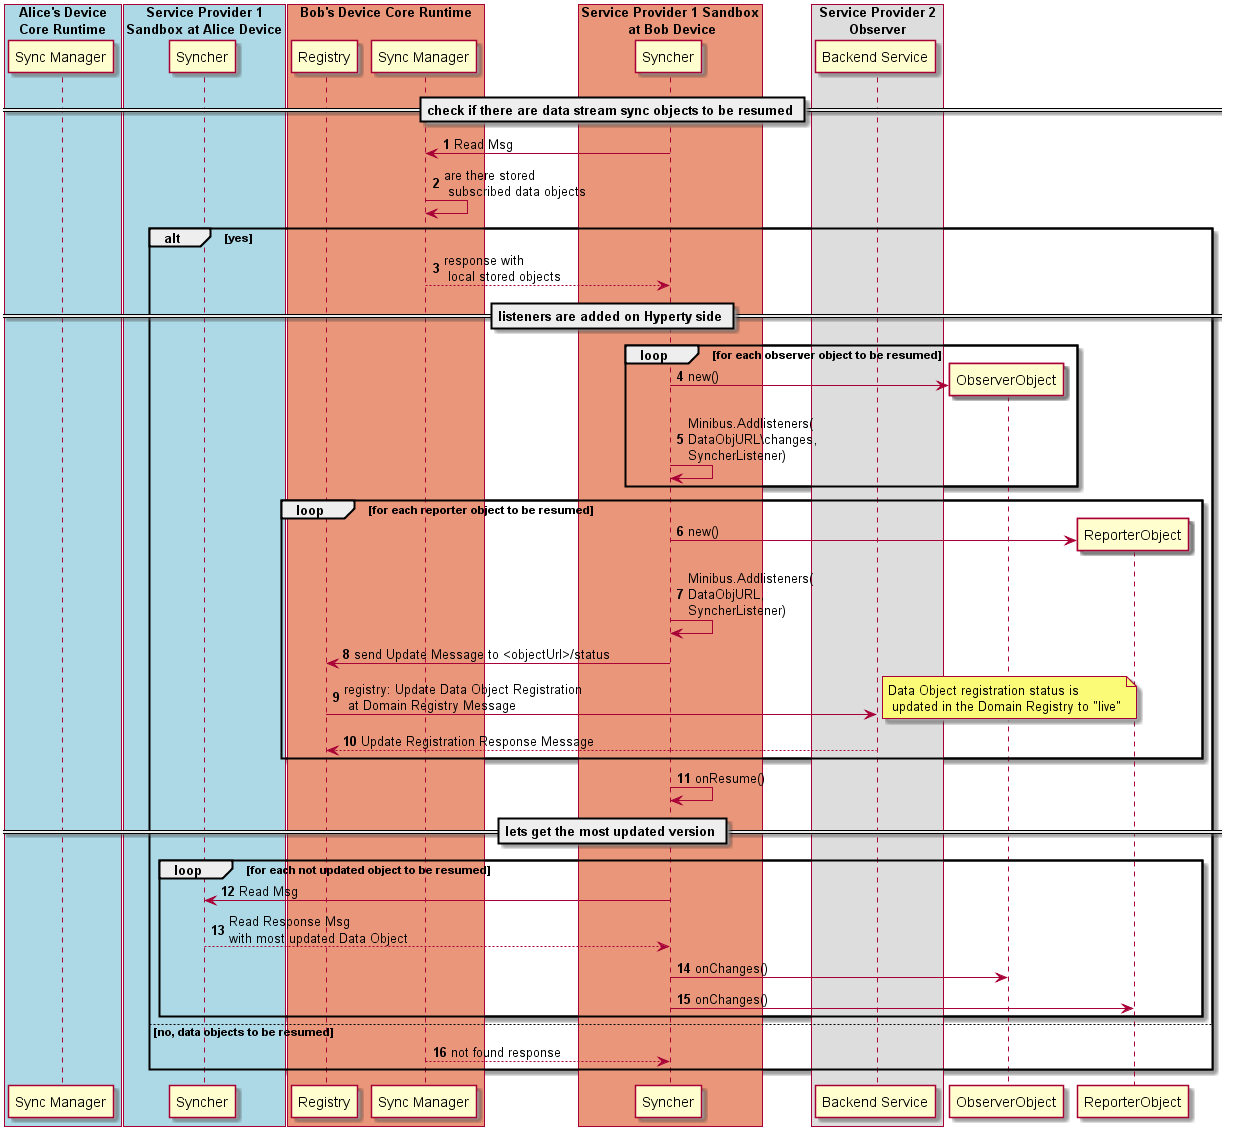
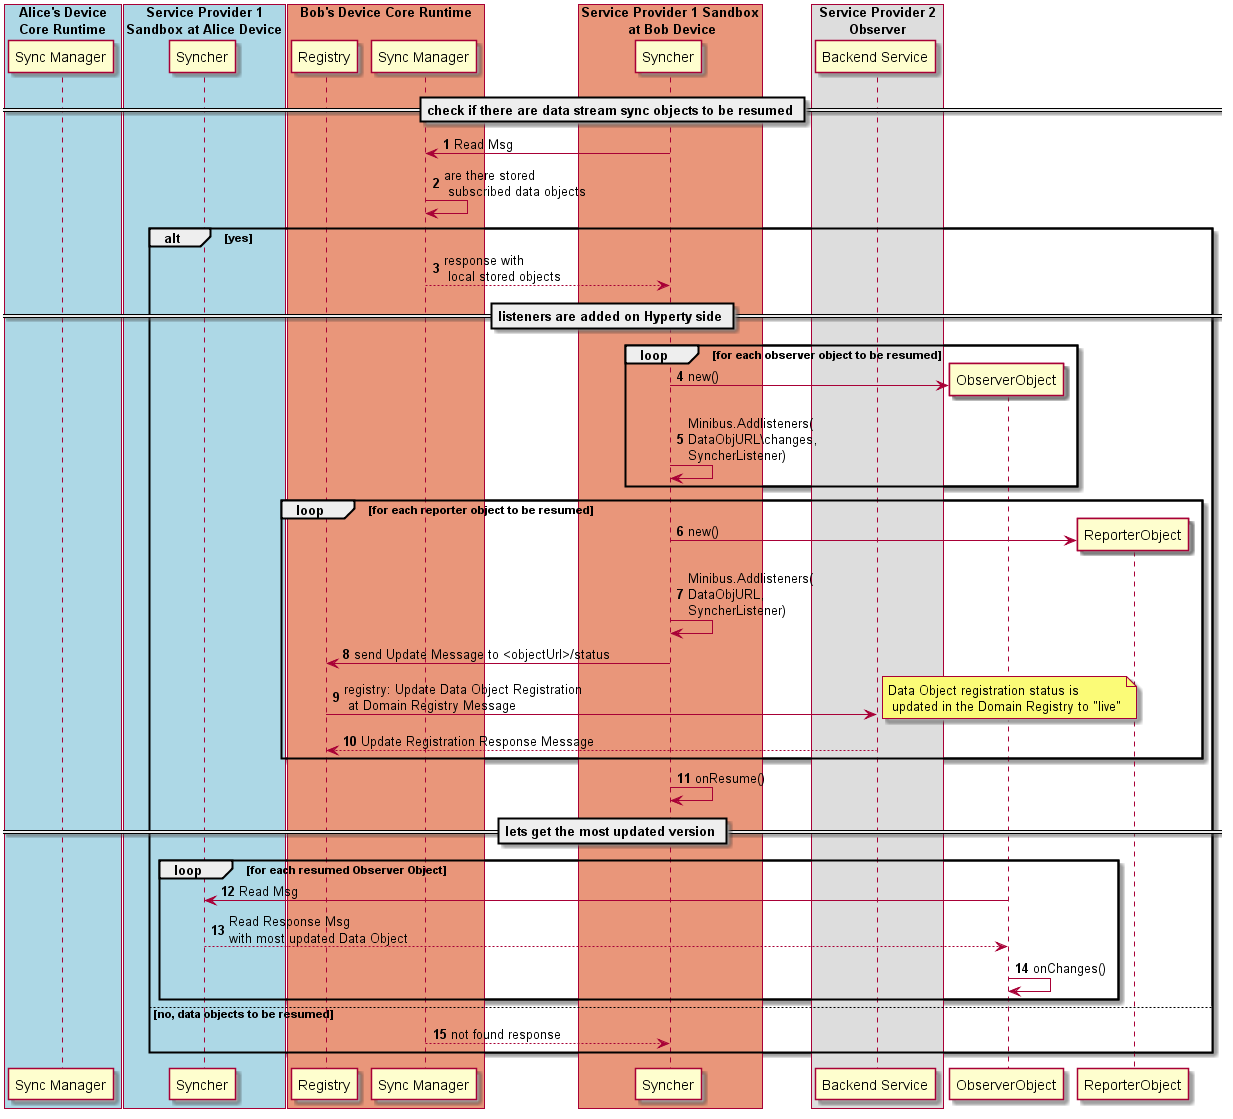
resume data object updated for reporters

diff --git a/dynamic-view/data-sync/data-object-creation.md b/dynamic-view/data-sync/data-object-creation.md
@@ -6,9 +6,9 @@ This MSC diagrams shows the most relevant steps to support the setup of data obj
 
 Steps 1-2 The Data Object reporter post a [Create Message](../../messages/data-sync-messages.md#hyperty-data-object-creation) to initiate the setup of the Data Object synchronisation. The Core Police Engine applies policies to check whether Alice has permissions to create the data object.
 
-Steps 3-4: **Phase 2 New:** [address is allocated to the data object](allocate-address.md). In case the reporter provides an existing ObjectURL and if the returned allocated address confirms the adddress is reused, this means it is the resume of a Data Sync Stream and Steps 5 - 6 are not performed.
+Steps 3-4: **Phase 2 New:** [address is allocated to the data object](allocate-address.md).
 
-  Steps 5 - 6 : If this is a new Data Object sync, the Routing Path has to be set at Reporter Message Node Subscription Manager functionality ([Subscribe Message sent to Message Node Subscription Manager](../../messages/data-sync-messages.md#reporter-data-sync-routing-path-setup-request-at-reporter-message-node-for-a-new-data-object)).
+  Steps 5 - 6 : The Routing Path has to be set at Reporter Message Node Subscription Manager functionality ([Subscribe Message sent to Message Node Subscription Manager](../../messages/data-sync-messages.md#reporter-data-sync-routing-path-setup-request-at-reporter-message-node-for-a-new-data-object)).
 
 Step 7 - 8: The new address allocated to the Data Object is returned back to the Reporter with a [response message](../../messages/data-sync-messages.md#response) and the sync manager adds its listener to receive subscription requests from observers.
 
@@ -16,8 +16,6 @@ Step 9: Optionally, and again, according to applicable policies, a Sync Manager 
 
 Step 10: Optionally, and again, according to applicable policies, the Reported Hyperty is added as a listener to be notified when new Observers to its Data Object are added or removed. The DataObjectObserversURL is handled by the Policy Engine.
 
-Step 11: The data object is registered in the Registry, which includes the allocation of the ObjectURL.
+Steps 11 - 14: The data object is registered in the Registry, which includes the allocation of the ObjectURL. A ([Create Message is sent to Domain Registry](../../messages/registration-messages.md#registration-request)) and **Phase 2 New:** a Runtime Registry listener is added in the message bus to receive events about status change of the data object which will be used to update the Domain Registry.
 
-Steps 12 - 18: In case this is a new data object a ([Create Message is sent to Domain Registry](../../messages/registration-messages.md#registration-request)) and the a [data object creation message is sent to invited Observers](../../messages/data-sync-messages.md#observer-invitation) and the Core Policy Engine takes the Hyperty Instance URLs set in the `to` header field, to set as the list of addresses that are previously authorised to be Observer for the new data object. Optionally, invited Observers may [respond e.g. to aknowledge the reception of the invitation and to accept or not the invitation to be an Observer](../../messages/data-sync-messages.md#response-3).
-
- Steps 19 - 20: **Phase 2 new:** in case this is the resume of a Data Sync Stream, an ([Update Message is sent to Domain Registry](../../messages/registration-messages.md#update-registration-to-live)) and there should be no new observer to be invited.
+Steps 15 - 18: the a [data object creation message is sent to invited Observers](../../messages/data-sync-messages.md#observer-invitation) and the Core Policy Engine takes the Hyperty Instance URLs set in the `to` header field, to set as the list of addresses that are previously authorised to be Observer for the new data object. Optionally, invited Observers may [respond e.g. to aknowledge the reception of the invitation and to accept or not the invitation to be an Observer](../../messages/data-sync-messages.md#response-3).

diff --git a/dynamic-view/data-sync/data-object-resume.md b/dynamic-view/data-sync/data-object-resume.md
@@ -10,6 +10,6 @@ Steps 1 - 2: The resume process starts by [querying the local Sync Manager](http
 
 Steps 3 - 8: If there are stored data objects, they are returned in the response body. Each returned Observer Object is instantiated and a listener for the ObjectURL changes address is added. In the same way, for each returned Reporter Object is instantiated and a listener for the ObjectURL read address is added. At the end, a ResumeEvent is fired with the Data Objects instantiated objects.
 
-Steps 9 - 17: then the Syncher will check if each returned data object is updated, if not a [Read Message](https://github.com/reTHINK-project/specs/blob/master/messages/data-sync-messages.md#data-object-read) is sent to the sync manager wich fowards it to Object Reader URL to get the most updated version of the data object. For Reporter data objects the sync manager requests the Registry to update its registration to live *or a object status event is also fired from the syncher to the registry*. For each received message, a ChangesEvent is fired by the Syncher with the most updated version of the data object. 
+Steps 9 - 14: then the Syncher will check if each returned data object is updated, if not a [Read Message](https://github.com/reTHINK-project/specs/blob/master/messages/data-sync-messages.md#data-object-read) is sent to the sync manager wich fowards it to Object Reader URL to get the most updated version of the data object. For Reporter data objects the sync manager requests the Registry to update its registration to live *or a object status event is also fired from the syncher to the registry*. For each received message, a ChangesEvent is fired by the Syncher with the most updated version of the data object. 
 
-Step 18: If there are no stored data objects a NOT FOUND message is returned and no additional process is performed.
+Step 15: If there are no stored data objects a NOT FOUND message is returned and no additional process is performed.
